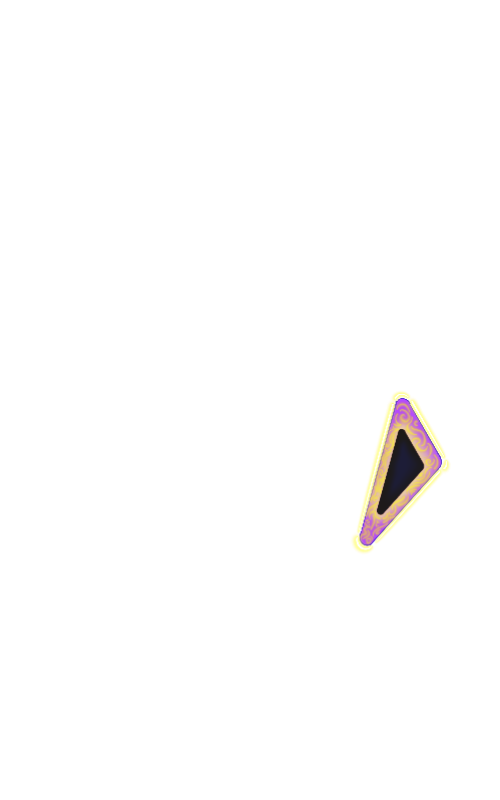
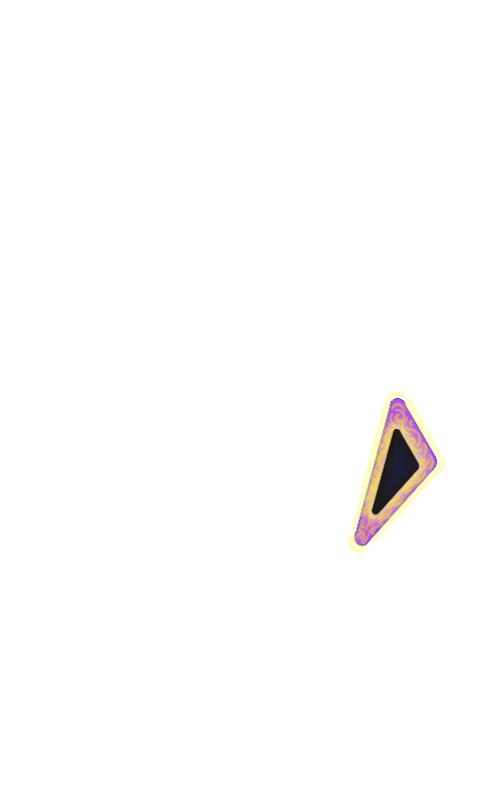
New Map and obstacle adjustments
moved the right side triangles a bit so that the ball wouldn't immediatley collide with the launcher

Changed region(s): [[0.69, 0.4688, 0.9, 0.6875]]

diff --git a/Source/ModuleGame.cpp b/Source/ModuleGame.cpp
@@ -276,7 +276,7 @@ update_status ModuleGame::Update()
 	return UPDATE_CONTINUE;
 }
 
-static constexpr int outerBackground[48] = {
+static constexpr int outerBackground[102] = {
 	241, 6,
 	147, 25,
 	81, 81,
@@ -285,22 +285,49 @@ static constexpr int outerBackground[48] = {
 	3, 340,
 	8, 414,
 	26, 477,
-	45, 522,
-	133, 585,
-	90, 637,
-	86, 708,
-	397, 716,
-	398, 634,
-	368, 584,
-	443, 530,
-	445, 786,
-	479, 783,
-	486, 419,
-	494, 316,
-	482, 219,
-	455, 142,
-	414, 78,
-	346, 22
+	31, 504,
+	96, 576,
+	111, 579,
+	146, 582,
+	155, 590,
+	167, 595,
+	180, 618,
+	177, 628,
+	164, 627,
+	139, 630,
+	115, 640,
+	97, 706,
+	82, 724,
+	77, 745,
+	68, 763,
+	92, 771,
+	111, 782,
+	125, 798,
+	126, 849,
+	365, 853,
+	371, 798,
+	380, 784,
+	395, 773,
+	397, 709,
+	380, 696,
+	372, 658,
+	352, 628,
+	312, 620,
+	325, 598,
+	344, 581,
+	381, 579,
+	401, 577,
+	448, 537,
+	451, 784,
+	478, 784,
+	478, 457,
+	491, 357,
+	488, 270,
+	472, 194,
+	442, 118,
+	398, 60,
+	347, 25,
+	286, 6
 };
 
 static constexpr int triangle1[10] = {
@@ -371,7 +398,7 @@ static constexpr int thumbusLeft[28] = {
 void ModuleGame::CreateWorld() {
 
 	//background
-	entities.emplace_back(new Background(App-> physics, 0, 0, outerBackground, 48, this, outerBackgroundTex));
+	entities.emplace_back(new Background(App-> physics, 0, 0, outerBackground, 102, this, outerBackgroundTex));
 
 	//bumpers
 	entities.emplace_back(new Bumper(App->physics, bumper1Pos.x, bumper1Pos.y, 21, this, bumperTex));
@@ -382,14 +409,14 @@ void ModuleGame::CreateWorld() {
 	entities.emplace_back(new Bumper(App->physics, bumper6Pos.x, bumper6Pos.y, 11, this, bumperMiniTex));
 
 	//triangles
-	entities.emplace_back(new Triangle(App->physics, 0, 0, triangle1, 10, this, triangle1Tex));
+	entities.emplace_back(new Triangle(App->physics, -5, 0, triangle1, 10, this, triangle1Tex));
 	entities.emplace_back(new Triangle(App->physics, 0, 0, triangle2, 10, this, triangle2Tex));
 	entities.emplace_back(new Triangle(App->physics, 0, 0, triangle3, 10, this, triangle3Tex));
 	entities.emplace_back(new Triangle(App->physics, 0, 0, triangle4, 10, this, triangle4Tex));
 
 	//flippers
-	entities.emplace_back(new Flipper(App->physics, 50, 10, 5.0f, 0.3f, 200, 620, this, paddleLeftTex, 1));
-	entities.emplace_back(new Flipper(App->physics, 50, 10, 5.0f, 0.3f, 310, 620, this, paddleRightTex, 2));
+	entities.emplace_back(new Flipper(App->physics, 50, 10, 5.0f, 0.3f, 200, 694, this, paddleLeftTex, 1));
+	entities.emplace_back(new Flipper(App->physics, 50, 10, 5.0f, 0.3f, 310, 694, this, paddleRightTex, 2));
 
 	//deathzone
 	deathZone = App->physics->CreateDeathZone();
